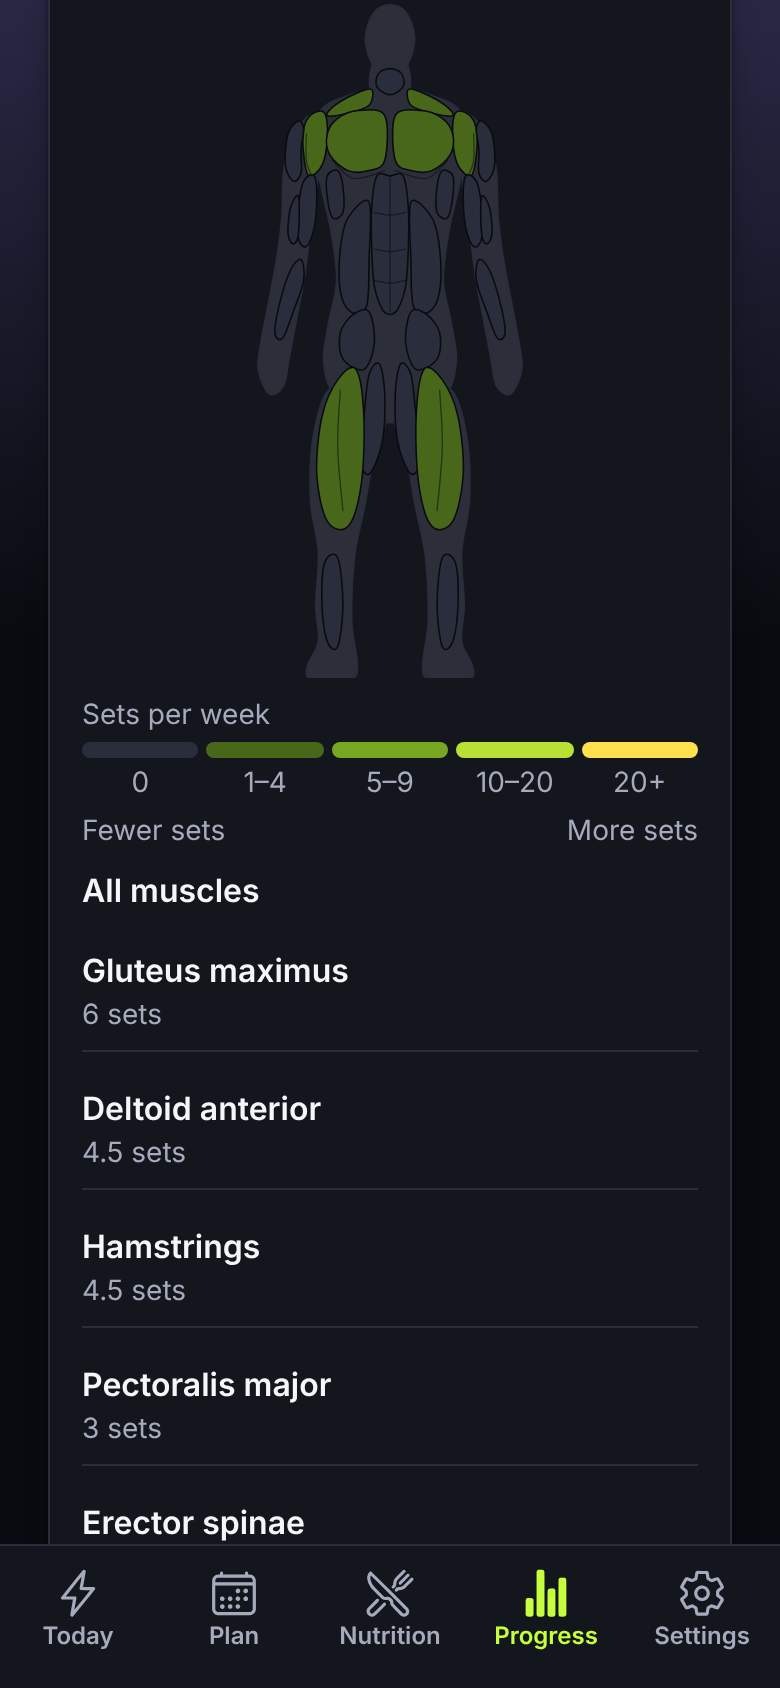
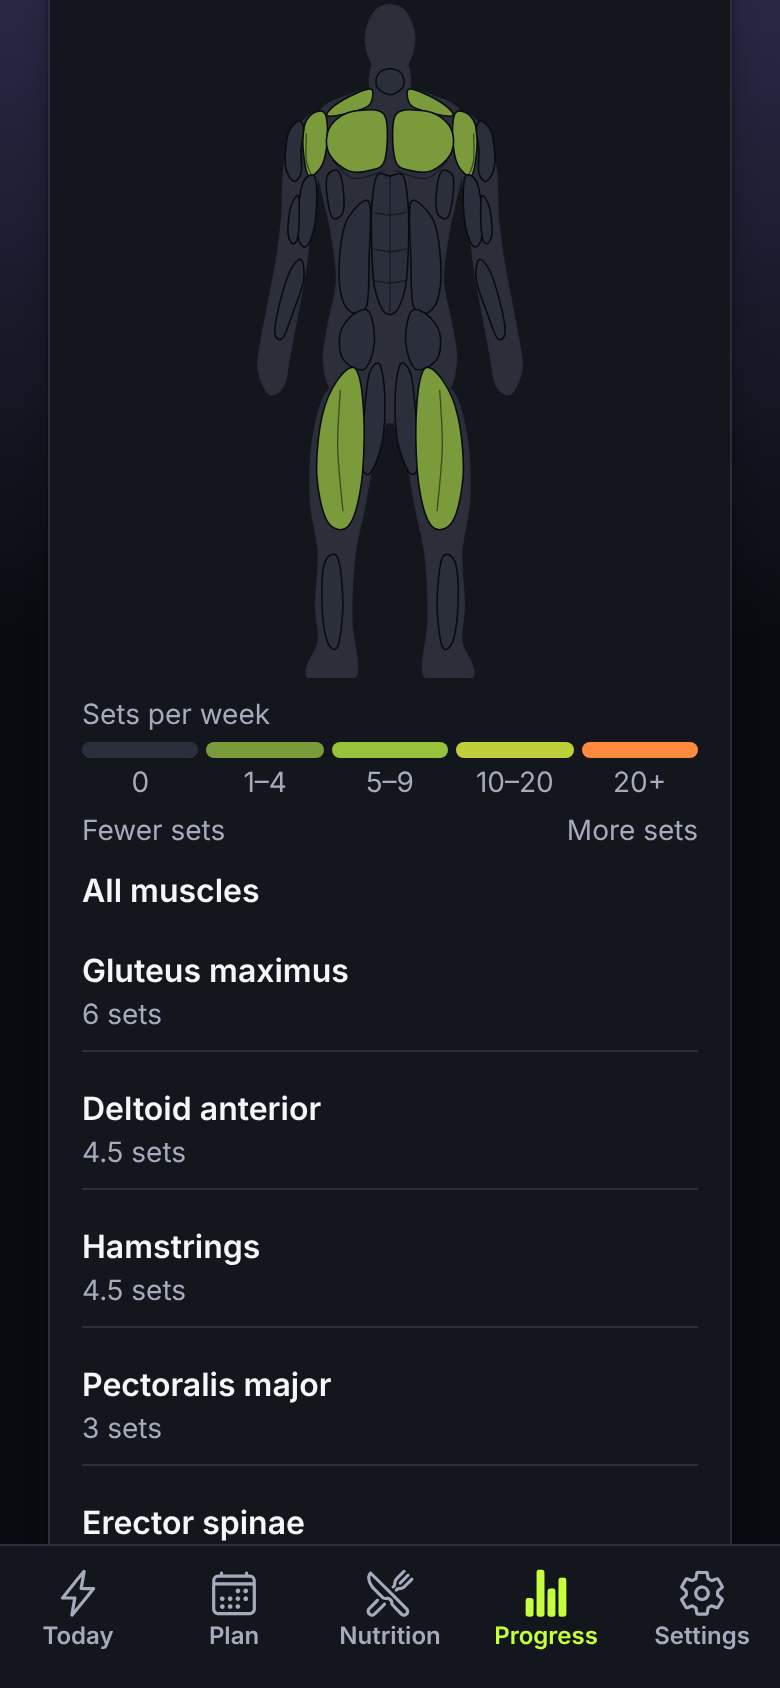
fix: dark theme keeps its look: body map ramp and selected tint as on main (#175)
The dark heat ramp and accentSubtle are the exact colours the old rendering produced (accent over the body tone at growing
opacity, hot orange top band; accent mixed 12% over the card). Dark top band is a hue step, so the brightness-order test
covers the first three steps in dark.

Claude-Session: https://claude.ai/code/session_01Kdop2igX7KLqqN61nWjG9S

diff --git a/apps/mobile/src/theme/theme.test.ts b/apps/mobile/src/theme/theme.test.ts
@@ -192,10 +192,13 @@ describe.each(['dark', 'light'] as const)('%s palette: tokens by job (E-70)', (s
     for (const col of c.chart) expect(contrastRatio(col, c.surface), `${col} on card`).toBeGreaterThanOrEqual(3);
     expect(c.chart[0]).toBe(scheme === 'dark' ? c.accent : c.accentText.replace('3F6212', '4D7C0F'));
   });
-  it('the heat ramp is ordered by brightness, so it works in greyscale', () => {
+  it('the heat ramp is ordered by brightness, so it works in greyscale (dark: up to the hot top band)', () => {
     const l = c.heat.map(luminance);
-    for (let i = 1; i < l.length; i++) expect(scheme === 'dark' ? l[i] > l[i - 1] : l[i] < l[i - 1], `step ${i}`).toBe(true);
+    // Dark keeps the look the map always had: lime bands that brighten, then a hot orange top band (a hue step, not a brightness step).
+    const steps = scheme === 'dark' ? 3 : l.length - 1;
+    for (let i = 1; i <= steps; i++) expect(scheme === 'dark' ? l[i] > l[i - 1] : l[i] < l[i - 1], `step ${i}`).toBe(true);
     expect(c.heat[0]).not.toBe(c.heat[1]);
+    if (scheme === 'dark') expect(c.heat[4]).toBe('#FF8A3D');
   });
   it('shadows grow with the level', () => {
     expect(c.shadow.sm).toBeLessThan(c.shadow.md);
@@ -244,4 +247,9 @@ describe('no colour literals outside the tokens (E-70)', () => {
   it('the fixed brand colours exist in one place', () => {
     expect(brandAssets.mark.lime).toBe(palettes.dark.accent);
   });
+});
+
+it('dark keeps its look: the selected tint is the old accent-over-card mix', () => {
+  const old = mixColors(palettes.dark.surface, palettes.dark.accent, 0.12);
+  expect(palettes.dark.accentSubtle.toLowerCase()).toBe(old.toLowerCase());
 });

diff --git a/apps/mobile/src/theme/tokens.ts b/apps/mobile/src/theme/tokens.ts
@@ -69,7 +69,7 @@ export const palettes: Record<Scheme, Palette> = {
     accent: '#C6FF3D',
     onAccent: '#0A0B10',
     accentText: '#C6FF3D',
-    accentSubtle: '#1F2A1C',
+    accentSubtle: '#293221',
     accentBorder: '#C6FF3D',
     accentGlow: 'rgba(198,255,61,0.22)',
     accent2: '#9A8CFF',
@@ -87,7 +87,8 @@ export const palettes: Record<Scheme, Palette> = {
     skeleton: { base: '#1D202A', highlight: '#2A2E3C' },
     shadow: { color: '#000000', sm: 0.3, md: 0.4, lg: 0.5 },
     chart: ['#C6FF3D', '#9A8CFF', '#5BE3B0', '#FFB74D', '#FF7A7A'],
-    heat: ['#2A2E3C', '#3F5A1A', '#6C9A1F', '#A7E02E', '#FFE14D'],
+    // The look the body map had before the tokens: the accent over the body tone at growing opacity, the top band hot orange.
+    heat: ['#2B2E3B', '#75923B', '#92B93C', '#AFE03C', '#FF8A3D'],
     gradient: {
       brand: ['#C6FF3D', '#5BE3B0'],
       card: ['#1B1E28', '#14161D'],

diff --git a/docs/DESIGN_TOKENS.md b/docs/DESIGN_TOKENS.md
@@ -22,7 +22,7 @@ Rules of thumb:
 | `accent` | Brand fill: primary button, selected chip, progress, slider. Neon lime in both themes. Not for text on a surface. | `#C6FF3D` | `#B8F230` |
 | `onAccent` | Text and icons on `accent` (7:1 or better). | `#0A0B10` | `#0B0D14` |
 | `accentText` | Brand colour as text, links and icons on a surface (the same lime in dark, a deep green in light). | `#C6FF3D` | `#3F6212` |
-| `accentSubtle` | Tinted background of a selected card or state. | `#1F2A1C` | `#EEF9D0` |
+| `accentSubtle` | Tinted background of a selected card or state. | `#293221` | `#EEF9D0` |
 | `accentBorder` | Outline of a selected card, chip or state (3:1 on the page and cards). | `#C6FF3D` | `#5E8F0A` |
 | `accentGlow` | The halo under the main button. | `rgba(198,255,61,0.22)` | `rgba(184,242,48,0.4)` |
 | `accent2` | Secondary accent (violet): highlights next to the brand colour, never a second primary. | `#9A8CFF` | `#5B45E8` |
@@ -40,7 +40,7 @@ Rules of thumb:
 | `skeleton` | Loading blocks: `base` at rest and the `highlight` that sweeps over it. | `{base:#1D202A,highlight:#2A2E3C}` | `{base:#E3E7EF,highlight:#F4F6FA}` |
 | `shadow` | Shadow colour and opacity per level (`sm`, `md`, `lg`). | `{color:#000000,sm:0.3,md:0.4,lg:0.5}` | `{color:#0B0D14,sm:0.08,md:0.12,lg:0.18}` |
 | `chart` | Five chart series colours, 3:1 on a card; the first is the brand. | `[#C6FF3D,#9A8CFF,#5BE3B0,#FFB74D,#FF7A7A]` | `[#4D7C0F,#5B45E8,#0F766E,#B45309,#B91C1C]` |
-| `heat` | Body map ramp from "not trained" to "very high volume", ordered by brightness. | `[#2A2E3C,#3F5A1A,#6C9A1F,#A7E02E,#FFE14D]` | `[#DCE0E9,#C9E586,#A4D12F,#5F9A14,#C2410C]` |
+| `heat` | Body map ramp from "not trained" to "very high volume", ordered by brightness. | `[#2B2E3B,#75923B,#92B93C,#AFE03C,#FF8A3D]` | `[#DCE0E9,#C9E586,#A4D12F,#5F9A14,#C2410C]` |
 | `gradient` | Two-stop gradients: `brand` (lime to mint), `card`, `glow`. Decoration only. | `{brand:[#C6FF3D,#5BE3B0],card:[#1B1E28,#14161D],glow:[rgba(154,140,255,0.22),rgba(10,11,16,0)]}` | `{brand:[#B8F230,#5BE3B0],card:[#FFFFFF,#F7F8FC],glow:[rgba(91,69,232,0.12),rgba(233,236,242,0)]}` |
 
 _Contrast is enforced by `src/theme/theme.test.ts` for both schemes._
